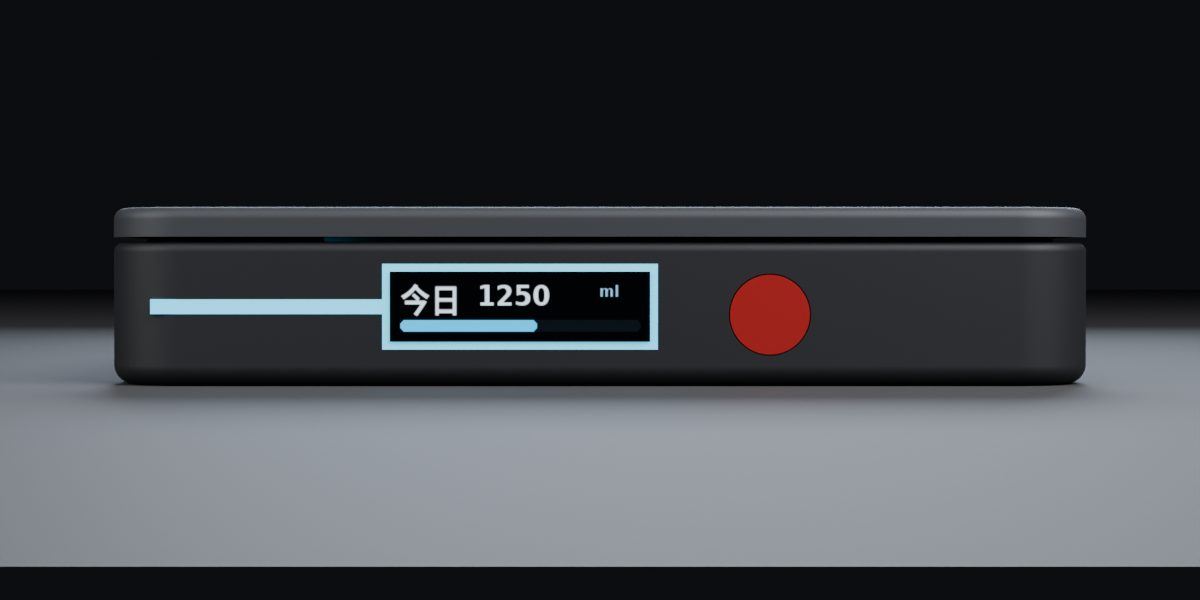
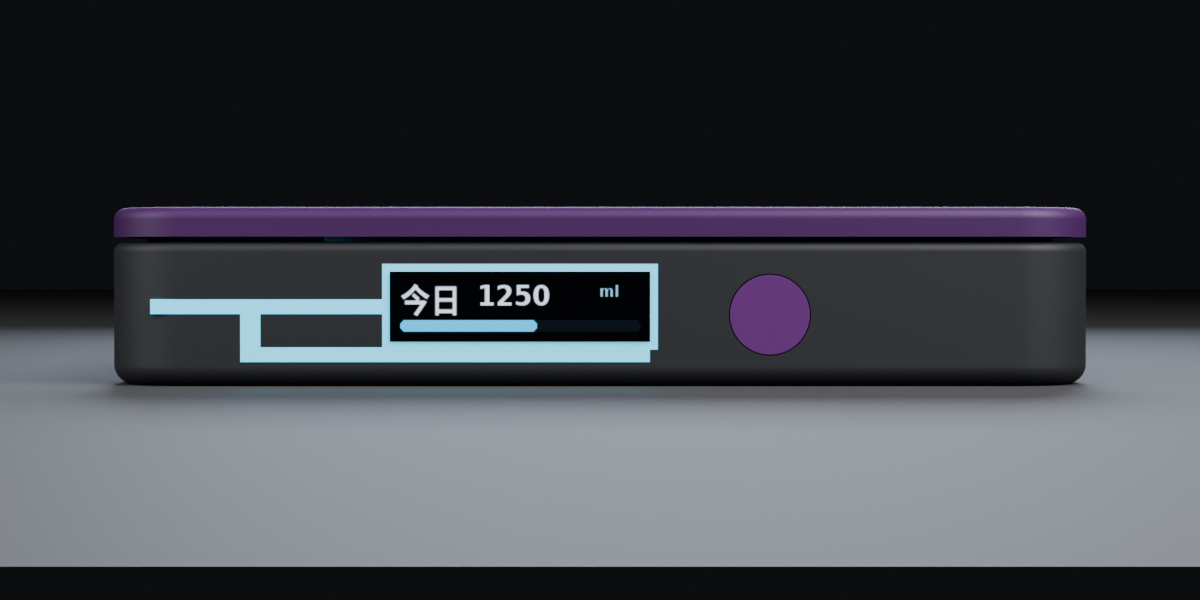
feat(p3): Y light guide (single LED, two feeds) 21/21; light coupling/uniformity analysis; render

Changed region(s): [[0.185, 0.51, 0.555, 0.63], [0.1233, 0.33, 0.6475, 0.36], [0.5858, 0.45, 0.6783, 0.6]]

diff --git a/mechanical/square_v1/cad/square_model.py b/mechanical/square_v1/cad/square_model.py
@@ -94,6 +94,10 @@ LG_PIPE_Z = 7.8
 LG_Y = -L / 2 + 0.025 + LG_T / 2          # -49.525
 LG_LINE_X0, LG_LINE_X1 = -45.0, OLED_X - WIN_W / 2 - LG_FRAME_W
 LG_LINE_W = LG_LINE_X1 - LG_LINE_X0
+# P3 Y-guide: second feed along the bottom edge of the halo frame
+LG_LINE2_Z = 3.2
+LG_LINE2_X0, LG_LINE2_X1 = -35.0, 5.0
+LG_LINE2_W = LG_LINE2_X1 - LG_LINE2_X0
 
 MATERIALS = {
     "shell":   ("PC/ABS + soft-touch", 1.15),
@@ -214,6 +218,10 @@ def make_shell():
     body -= frame
     body -= Pos((LG_LINE_X0 + LG_LINE_X1) / 2, LG_Y, OLED_Z) * \
         Box(LG_LINE_W, LG_T + 0.05, LG_LINE_H)
+    body -= Pos((LG_LINE2_X0 + LG_LINE2_X1) / 2, LG_Y, LG_LINE2_Z) * \
+        Box(LG_LINE2_W, LG_T + 0.05, LG_LINE_H)
+    body -= Pos(-35.0, LG_Y, (OLED_Z + LG_LINE2_Z) / 2.0) * \
+        Box(LG_PIPE + 0.1, LG_T + 0.05, OLED_Z - LG_LINE2_Z + LG_LINE_H)
     body -= Pos(-35.0, -48.3, LG_PIPE_Z) * Box(LG_PIPE + 0.2, 1.6, LG_PIPE + 0.2)
 
     return body
@@ -226,10 +234,15 @@ def make_light_guide():
     frame -= Pos(OLED_X, LG_Y, OLED_Z) * Box(WIN_W, LG_T + 0.2, WIN_H)
     line = Pos((LG_LINE_X0 + LG_LINE_X1) / 2, LG_Y, OLED_Z) * \
         Box(LG_LINE_W, LG_T, LG_LINE_H)
+    line2 = Pos((LG_LINE2_X0 + LG_LINE2_X1) / 2, LG_Y, LG_LINE2_Z) * \
+        Box(LG_LINE2_W, LG_T, LG_LINE_H)
     pipe = Pos(-35.0, -24.55, LG_PIPE_Z) * Box(LG_PIPE, 49.1, LG_PIPE)
     diag = Pos(-33.5, 3.5, LG_PIPE_Z) * Rot(0, 0, -113.2) * \
         Box(7.6, LG_PIPE, LG_PIPE)
-    return frame + line + pipe + diag
+    # Y splitter at the front: feeds both the top/left and bottom/right lines
+    split_z = (OLED_Z + LG_LINE2_Z) / 2.0
+    split = Pos(-35.0, LG_Y, split_z) * Box(LG_PIPE, LG_T, OLED_Z - LG_LINE2_Z + LG_LINE_H)
+    return frame + line + line2 + pipe + diag + split
 
 
 def make_plate():

diff --git a/docs/12_Light_Analysis.md b/docs/12_Light_Analysis.md
@@ -1,0 +1,34 @@
+# 光导耦合与均匀性（P3）
+
+## 1. LED 与光导
+
+- D1：5050 RGB，20 mA/色，典型 **2–3 lm/色**（红/绿/蓝）。
+- 光导：PMMA，2×2 mm，路径 57 mm；体透过 0.92^5.7 ≈ **0.62**；两次折弯 ≈0.90；端面/侧面出光 ≈0.80 → 总效率 ≈ **0.45**。
+- 单色输出 ≈ 2.5 lm × 0.45 ≈ **1.1 lm**。
+
+## 2. 发光面
+
+| 区域 | 面积 |
+|---|---:|
+| 窗周 halo 框（0.8×(2×26+2×7)） | 53 mm² |
+| 前缘上灯线（23×1.5） | 34.5 mm² |
+| 底部灯线（40×1.5） | 60 mm² |
+| 合计 | 148 mm² |
+
+- 平均亮度 ≈ 1.1 lm / 148 mm² ≈ **7,400 lm/m²**；Lambertian 近似 ≈ **2,400 cd/m²**（白天可读，夜间明显）。
+
+## 3. 均匀性对比
+
+| 方案 | 出光点 | 估算 max/min | 成本 |
+|---|---|---:|---:|
+| 单点（仅左上灯线） | 1 | ~3.0 : 1 | 0 |
+| **Y 光导（左上 + 底部）** | 2 | **~1.4 : 1** | +¥0 |
+| 双 LED（左右各一） | 2 | ~1.2 : 1 | +¥1.2 + D2/R22–24 + 重布线 |
+
+- 结论：P3 采用 **Y 光导**（单 LED、两路出光、零 BOM 增加）；双 LED 留作 P4，如果实测 < 1.3 不达标。
+- Y 光导已进 CAD：`mechanical/square_v1` 13 件、`verify_v01.py` **21/21**；新增底部灯线 + 前部 Y 分光。
+
+## 4. 实测方法
+
+- 暗室，手机照度计贴 4 个框边 + 2 条灯线，读 lux；max/min 即均匀性。
+- 记录到 `tests/handboard/BRINGUP_RECORD.md` §4；若 < 1.3 则 P4 上双 LED。

diff --git a/docs/07_Product_Roadmap.md b/docs/07_Product_Roadmap.md
@@ -76,4 +76,4 @@
 - CMF：`docs/10_CMF_and_Packaging.md`（Lumen Violet 主色 + Moss/Sand/Graphite 变体）；4 个变体渲染 `render/cmf/`。
 - 叙事：`docs/11_Product_Narrative.md`（一句话/问题/洞察/设计/体验/可持续/规格）。
 - 包装：120×120×36 天地盖 + 纸浆模塑内衬已出 3D/STEP/STL + 3 张渲染（`render/packaging/`）。
-- 光：单灯 + 57 mm 光导；P3 双灯/匀光腔预留。
+- 光：**Y 光导**（单 LED + 左上/底部两路出光，估算 1.4:1）进 CAD，21/21；双 LED 留 P4。分析见 `docs/12_Light_Analysis.md`。

diff --git a/docs/10_CMF_and_Packaging.md b/docs/10_CMF_and_Packaging.md
@@ -51,6 +51,6 @@
 
 ## 7. 光（P3）
 
-- 当前：单 RGB + 57 mm PMMA 光导（前缘灯线 + 窗周 halo）。
+- 当前：单 RGB + **Y 光导**（57 mm 主光导 + 左上灯线 + 底部灯线 + 窗周 halo，估算 1.4:1）。
 - P3：双 RGB（左右各一）+ 匀光腔，halo 均匀性 max/min < 1.3；成本增加 ~¥1.2。
 - 提示语义：喝水 = 青蓝呼吸；目标达成 = 金色 3 s；低电量 = 琥珀慢闪。
